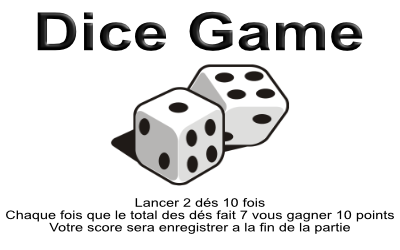
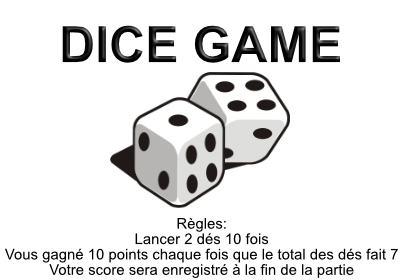
Changement de l'image titre

diff --git a/src/IHM/Ihmmenu.java b/src/IHM/Ihmmenu.java
@@ -95,9 +95,8 @@ public class Ihmmenu extends javax.swing.JFrame {
         layout.setVerticalGroup(
             layout.createParallelGroup(javax.swing.GroupLayout.Alignment.LEADING)
             .addGroup(javax.swing.GroupLayout.Alignment.TRAILING, layout.createSequentialGroup()
-                .addContainerGap()
-                .addComponent(jLabel1, javax.swing.GroupLayout.DEFAULT_SIZE, 272, Short.MAX_VALUE)
-                .addPreferredGap(javax.swing.LayoutStyle.ComponentPlacement.RELATED)
+                .addComponent(jLabel1, javax.swing.GroupLayout.DEFAULT_SIZE, javax.swing.GroupLayout.DEFAULT_SIZE, Short.MAX_VALUE)
+                .addGap(18, 18, 18)
                 .addGroup(layout.createParallelGroup(javax.swing.GroupLayout.Alignment.BASELINE)
                     .addComponent(bJouer)
                     .addComponent(bHighscores)
